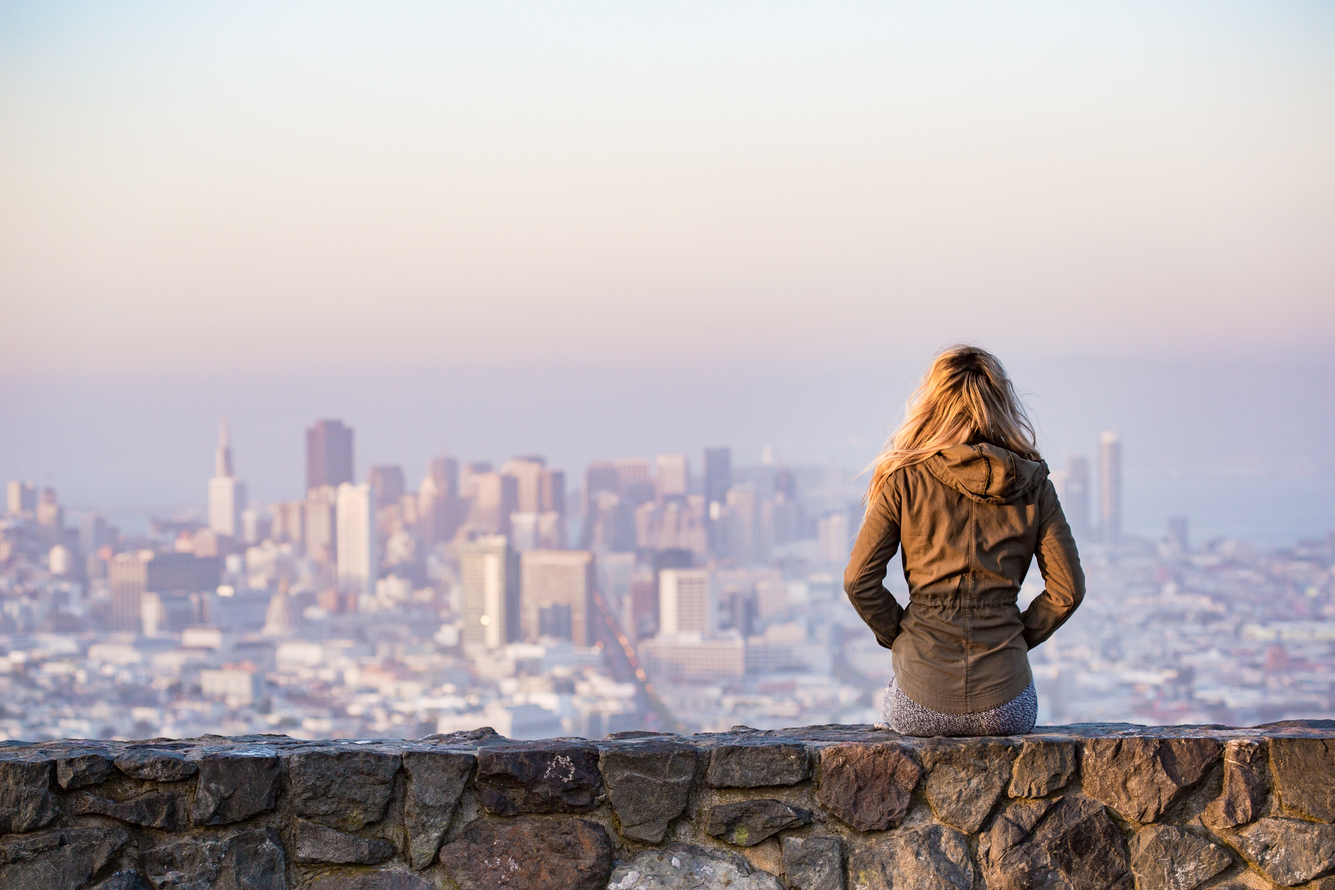
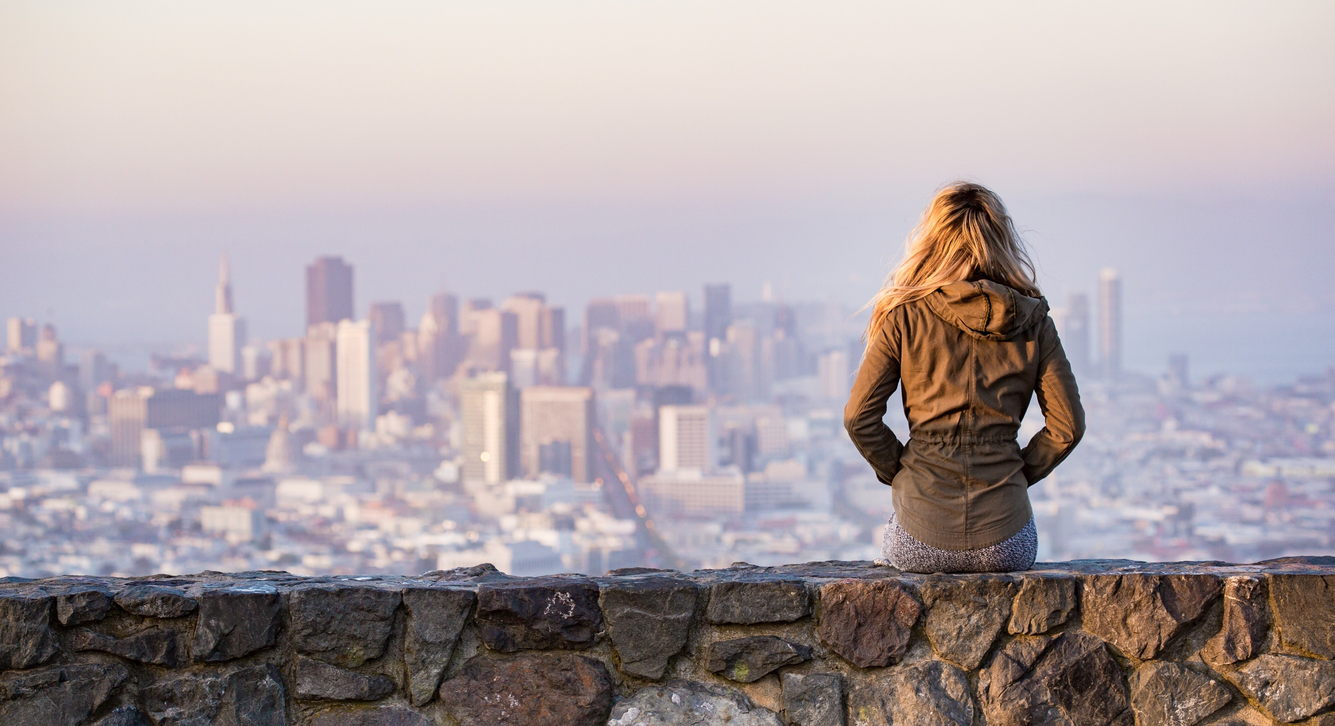
Register UI changes

diff --git a/webpages/register.html b/webpages/register.html
@@ -2,12 +2,11 @@
 <html>
 <head>
 	<script type="text/javascript" src="../js/register.js"></script>
-	<link rel="stylesheet" type="text/css" href="../css/login_screen.css">
-	<link rel="stylesheet" type="text/css" href="../css/footer.css">
+	<link rel="stylesheet" type="text/css" href="../css/register_screen.css">
 	<title>ST201819 - Register</title>
 </head>
-<body>
-	<div class="loginbox">
+<body style="background-size: cover;">
+	<div class="registerbox">
         <img src="../media/avatar.png" class="avatar">
         <h1 class="h1">Register</h1>
         <form action="#" target="_top">
@@ -19,8 +18,8 @@
             <input type="password" name="password" placeholder="Enter Password" required>
             <p>Confirm Password</p>
             <input type="password" name="cnf-password" placeholder="Confirm Password" required>
-            <input type="button" name="login" value="Register" onclick="local_registration()">
-            <a href="./login.html" style="margin-left: 60px" >Already registered? Login Here.</a>
+            <input type="submit" name="login" value="Register" onclick="local_registration()">
+            <a href="./login.html" style="margin-left: 92px" >Already registered? Login Here.</a>
         </form>
     </div>
 </body>

diff --git a/css/register_screen.css b/css/register_screen.css
@@ -2,8 +2,6 @@ body{
     margin: 0;
     padding: 0;
     background: url(../media/loginbg.jpg);
-    background-size: cover;
-    background-position: center;
     font-family: sans-serif;
 }
 
